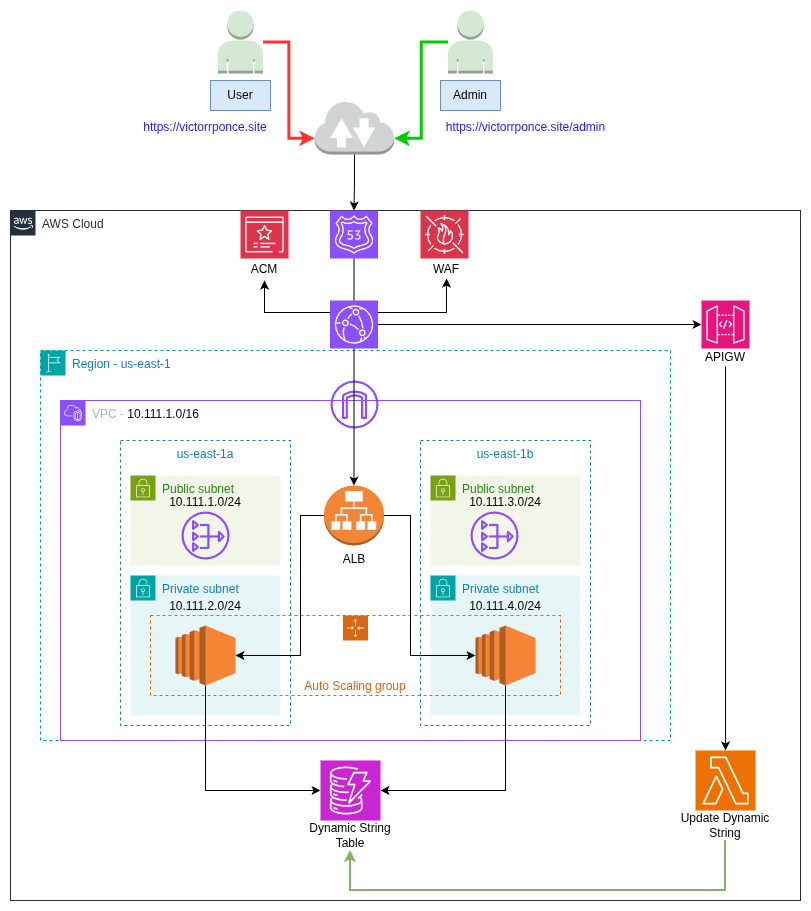
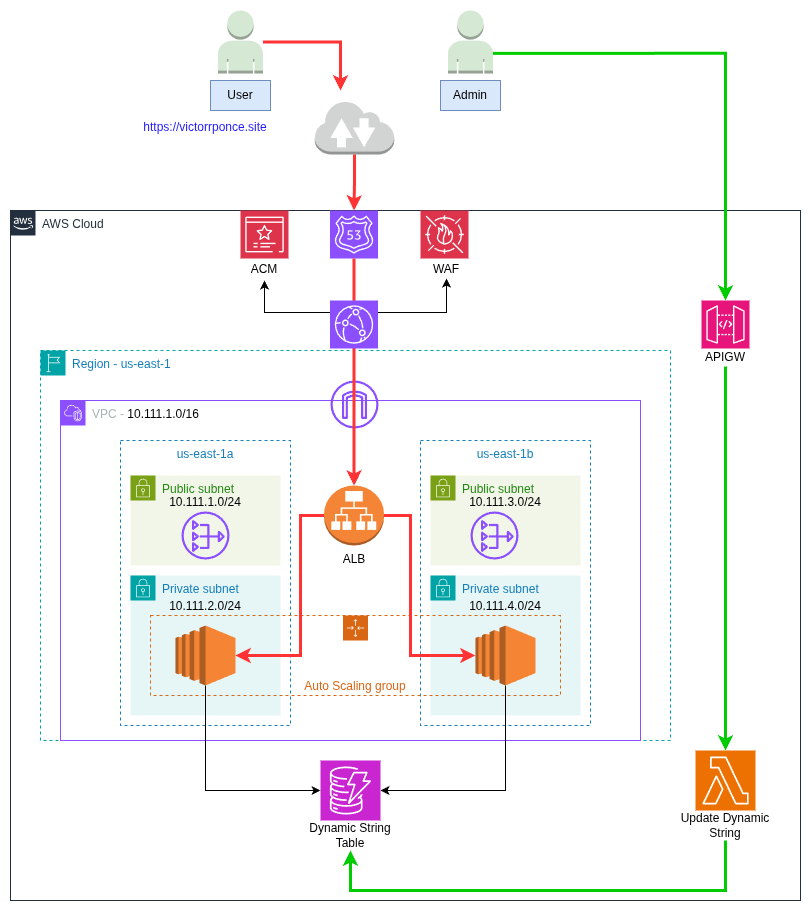
added: lambda + api gateway integration + fixes

diff --git a/scripts/lambda_function.py b/scripts/lambda_function.py
@@ -1,0 +1,27 @@
+import json
+import boto3
+
+dynamodb = boto3.client("dynamodb")
+
+def lambda_handler(event, context):
+    try:
+        body = json.loads(event.get("body", "{}"))
+        dynamic_string = body.get("dynamicstring", "dynamic string")
+        
+        dynamodb.put_item(
+            TableName="dynamic-content",
+            Item={
+                "id": {"S": "root"},
+                "content": {"S": f"The saved string is {dynamic_string}"}
+            }
+        )
+        
+        return {
+            "statusCode": 200,
+            "body": json.dumps({"message": f"Updated '{dynamic_string}'"})
+        }
+    except Exception as e:
+        return {
+            "statusCode": 500,
+            "body": json.dumps({"error": str(e)})
+        }
